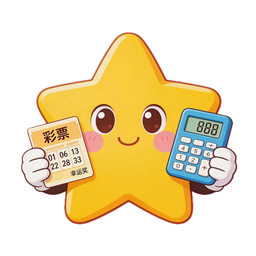
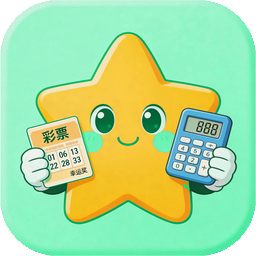
功能：应用图标改为 emerald 绿主题（配合 UI 主色）
更新飞牛 App 图标与前端 favicon：沿用原星星吉祥物，背景粉色改为
emerald 绿（与 UI 主色 emerald-500/600 一致），圆角透明、不裁切。

diff --git a/frontend/index.html b/frontend/index.html
@@ -2,7 +2,8 @@
 <html lang="en">
   <head>
     <meta charset="UTF-8" />
-    <link rel="icon" type="image/svg+xml" href="/vite.svg" />
+    <link rel="icon" type="image/png" href="/favicon.png" />
+    <link rel="apple-touch-icon" href="/favicon.png" />
     <meta name="viewport" content="width=device-width, initial-scale=1.0" />
     <title>彩彩助手</title>
   </head>